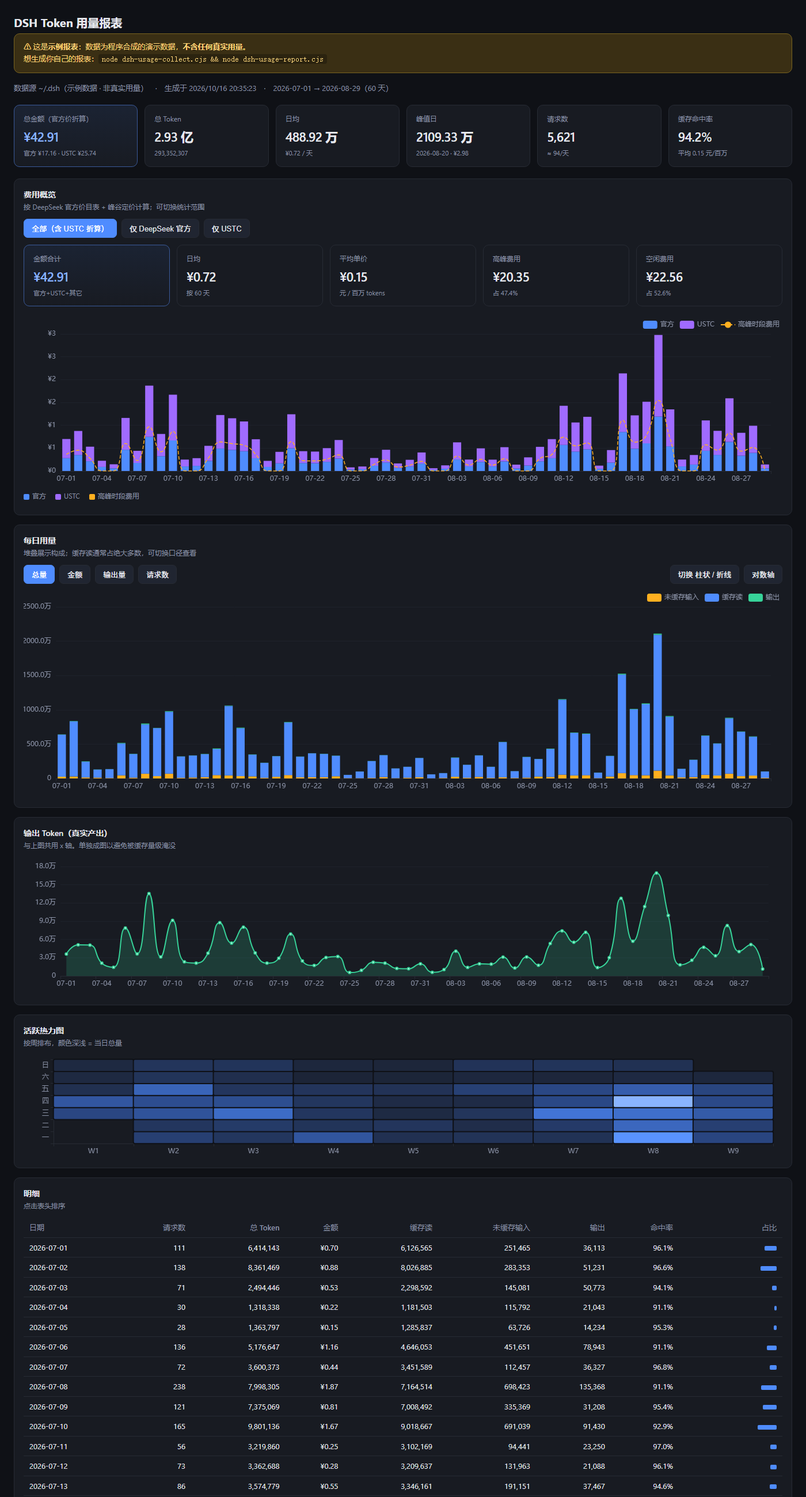
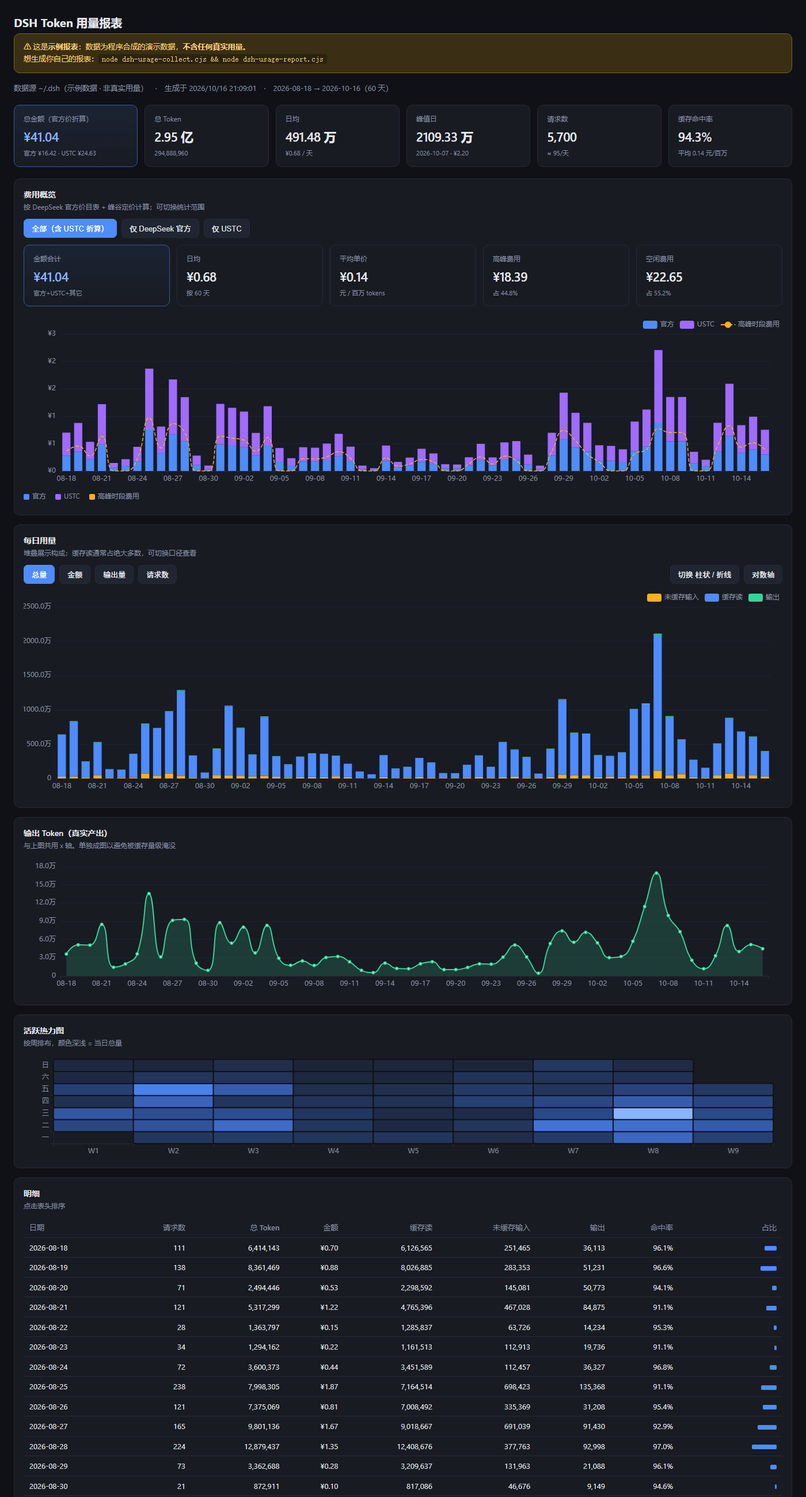
添加 CI 与示例报表优化
- .github/workflows/ci.yml：语法检查 + 隐私自检 + 计价自测(峰谷边界) + --demo 端到端
  并在 CI 中校验生成的报表不含个人信息
- --demo 示例数据改为对齐到当天（结束于今天，跨度 60 天），更像真实报表
- README 增加 CI 徽章、CI 说明与文件表条目

diff --git a/examples/demo-report.html b/examples/demo-report.html
@@ -48,15 +48,15 @@
   <h1>DSH Token 用量报表</h1>
   <div class="demo-banner">⚠ 这是<b>示例报表</b>：数据为程序合成的演示数据，<b>不含任何真实用量</b>。<br>
     想生成你自己的报表：<code>node dsh-usage-collect.cjs &amp;&amp; node dsh-usage-report.cjs</code></div>
-  <div class="sub">数据源 ~/.dsh（示例数据 · 非真实用量）　·　生成于 2026/10/16 20:35:23　·　2026-07-01 → 2026-08-29（60 天）</div>
+  <div class="sub">数据源 ~/.dsh（示例数据 · 非真实用量）　·　生成于 2026/10/16 21:09:01　·　2026-08-18 → 2026-10-16（60 天）</div>
 
   <div class="cards">
-    <div class="card hl"><div class="k">总金额（官方价折算）</div><div class="v">¥42.91</div><div class="n">官方 ¥17.16 · USTC ¥25.74</div></div>
-    <div class="card"><div class="k">总 Token</div><div class="v">2.93 亿</div><div class="n">293,352,307</div></div>
-    <div class="card"><div class="k">日均</div><div class="v">488.92 万</div><div class="n">¥0.72 / 天</div></div>
-    <div class="card"><div class="k">峰值日</div><div class="v">2109.33 万</div><div class="n">2026-08-20 · ¥2.98</div></div>
-    <div class="card"><div class="k">请求数</div><div class="v">5,621</div><div class="n">≈ 94/天</div></div>
-    <div class="card"><div class="k">缓存命中率</div><div class="v">94.2%</div><div class="n">平均 0.15 元/百万</div></div>
+    <div class="card hl"><div class="k">总金额（官方价折算）</div><div class="v">¥41.04</div><div class="n">官方 ¥16.42 · USTC ¥24.63</div></div>
+    <div class="card"><div class="k">总 Token</div><div class="v">2.95 亿</div><div class="n">294,888,960</div></div>
+    <div class="card"><div class="k">日均</div><div class="v">491.48 万</div><div class="n">¥0.68 / 天</div></div>
+    <div class="card"><div class="k">峰值日</div><div class="v">2109.33 万</div><div class="n">2026-10-07 · ¥2.20</div></div>
+    <div class="card"><div class="k">请求数</div><div class="v">5,700</div><div class="n">≈ 95/天</div></div>
+    <div class="card"><div class="k">缓存命中率</div><div class="v">94.3%</div><div class="n">平均 0.14 元/百万</div></div>
   </div>
 
   <div class="panel">
@@ -154,7 +154,7 @@
   </div>
 
 <script>
-const DATA = {"days":[{"day":"2026-07-01","req":111,"uncached":251465,"out":36113,"cache":6126565,"total":6414143,"subagentReq":0,"subagentTotal":0,"cost":0.699905205,"costOfficial":0.279962082,"costUstc":0.419943123,"costOther":0,"peakReq":39,"peakCost":0.36291381,"offReq":72,"offCost":0.33699139499999997},{"day":"2026-07-02","req":138,"uncached":283353,"out":51231,"cache":8026885,"total":8361469,"subagentReq":0,"subagentTotal":0,"cost":0.875899845,"costOfficial":0.350359938,"costUstc":0.525539907,"costOther":0,"peakReq":48,"peakCost":0.45417029,"offReq":90,"offCost":0.42172955500000003},{"day":"2026-07-03","req":71,"uncached":145081,"out":50773,"cache":2298592,"total":2494446,"subagentReq":0,"subagentTotal":0,"cost":0.532095534,"costOfficial":0.2128382136,"costUstc":0.3192573204,"costOther":0,"peakReq":25,"peakCost":0.27590138799999997,"offReq":46,"offCost":0.256194146},{"day":"2026-07-04","req":30,"uncached":115792,"out":21043,"cache":1181503,"total":1318338,"subagentReq":0,"subagentTotal":0,"cost":0.22359406,"costOfficial":0.08943762400000001,"costUstc":0.134156436,"costOther":0,"peakReq":0,"peakCost":0,"offReq":30,"offCost":0.22359406},{"day":"2026-07-05","req":28,"uncached":63726,"out":14234,"cache":1285837,"total":1363797,"subagentReq":0,"subagentTotal":0,"cost":0.14637874,"costOfficial":0.05855149600000001,"costUstc":0.087827244,"costOther":0,"peakReq":0,"peakCost":0,"offReq":28,"offCost":0.14637874},{"day":"2026-07-06","req":136,"uncached":451651,"out":78943,"cache":4646053,"total":5176647,"subagentReq":0,"subagentTotal":0,"cost":1.1614644809999999,"costOfficial":0.4645857924,"costUstc":0.6968786885999999,"costOther":0,"peakReq":48,"peakCost":0.6022408419999999,"offReq":88,"offCost":0.559223639},{"day":"2026-07-07","req":72,"uncached":112457,"out":36327,"cache":3451589,"total":3600373,"subagentReq":0,"subagentTotal":0,"cost":0.441175653,"costOfficial":0.1764702612,"costUstc":0.26470539179999997,"costOther":0,"peakReq":25,"peakCost":0.22875774599999998,"offReq":47,"offCost":0.21241790700000002},{"day":"2026-07-08","req":238,"uncached":698423,"out":135368,"cache":7164514,"total":7998305,"subagentReq":0,"subagentTotal":0,"cost":1.8673001280000001,"costOfficial":0.7469200512,"costUstc":1.1203800768,"costOther":0,"peakReq":83,"peakCost":0.968229696,"offReq":155,"offCost":0.899070432},{"day":"2026-07-09","req":121,"uncached":335369,"out":31208,"cache":7008492,"total":7375069,"subagentReq":0,"subagentTotal":0,"cost":0.810500634,"costOfficial":0.32420025360000004,"costUstc":0.4863003804,"costOther":0,"peakReq":42,"peakCost":0.42025958799999996,"offReq":79,"offCost":0.39024104600000004},{"day":"2026-07-10","req":165,"uncached":691039,"out":91430,"cache":9018667,"total":9801136,"subagentReq":0,"subagentTotal":0,"cost":1.670128659,"costOfficial":0.6680514636,"costUstc":1.0020771953999998,"costOther":0,"peakReq":58,"peakCost":0.8659926379999998,"offReq":107,"offCost":0.804136021},{"day":"2026-07-11","req":56,"uncached":94441,"out":23250,"cache":3102169,"total":3219860,"subagentReq":0,"subagentTotal":0,"cost":0.24948438,"costOfficial":0.09979375200000001,"costUstc":0.149690628,"costOther":0,"peakReq":0,"peakCost":0,"offReq":56,"offCost":0.24948438},{"day":"2026-07-12","req":73,"uncached":131963,"out":21088,"cache":3209637,"total":3362688,"subagentReq":0,"subagentTotal":0,"cost":0.28050774,"costOfficial":0.112203096,"costUstc":0.168304644,"costOther":0,"peakReq":0,"peakCost":0,"offReq":73,"offCost":0.28050774},{"day":"2026-07-13","req":86,"uncached":191151,"out":37467,"cache":3346161,"total":3574779,"subagentReq":0,"subagentTotal":0,"cost":0.550721997,"costOfficial":0.22028879880000002,"costUstc":0.3304331982,"costOther":0,"peakReq":30,"peakCost":0.285559554,"offReq":56,"offCost":0.265162443},{"day":"2026-07-14","req":121,"uncached":480385,"out":87700,"cache":3808007,"total":4376092,"subagentReq":0,"subagentTotal":0,"cost":1.2249159390000002,"costOfficial":0.4899663756000001,"costUstc":0.7349495634000001,"costOther":0,"peakReq":42,"peakCost":0.635141598,"offReq":79,"offCost":0.589774341},{"day":"2026-07-15","req":174,"uncached":436368,"out":53994,"cache":10123490,"total":10613852,"subagentReq":0,"subagentTotal":0,"cost":1.15399863,"costOfficial":0.461599452,"costUstc":0.692399178,"costOther":0,"peakReq":61,"peakCost":0.59836966,"offReq":113,"offCost":0.55562897},{"day":"2026-07-16","req":137,"uncached":342391,"out":80218,"cache":6984949,"total":7407558,"subagentReq":0,"subagentTotal":0,"cost":1.083998673,"costOfficial":0.43359946920000003,"costUstc":0.6503992037999999,"costOther":0,"peakReq":48,"peakCost":0.562073386,"offReq":89,"offCost":0.5219252870000001},{"day":"2026-07-17","req":70,"uncached":300010,"out":37840,"cache":3173099,"total":3510949,"subagentReq":0,"subagentTotal":0,"cost":0.695023173,"costOfficial":0.2780092692,"costUstc":0.41701390380000003,"costOther":0,"peakReq":25,"peakCost":0.360382386,"offReq":45,"offCost":0.334640787},{"day":"2026-07-18","req":41,"uncached":93850,"out":21057,"cache":2173941,"total":2288848,"subagentReq":0,"subagentTotal":0,"cost":0.22155682000000002,"costOfficial":0.08862272800000001,"costUstc":0.132934092,"costOther":0,"peakReq":0,"peakCost":0,"offReq":41,"offCost":0.22155682000000002},{"day":"2026-07-19","req":55,"uncached":242552,"out":29080,"cache":3000436,"total":3272068,"subagentReq":0,"subagentTotal":0,"cost":0.41888072,"costOfficial":0.167552288,"costUstc":0.251328432,"costOther":0,"peakReq":0,"peakCost":0,"offReq":55,"offCost":0.41888072},{"day":"2026-07-20","req":146,"uncached":490965,"out":68805,"cache":7669874,"total":8229644,"subagentReq":0,"subagentTotal":0,"cost":1.2414363480000001,"costOfficial":0.49657453920000005,"costUstc":0.7448618088000001,"costOther":0,"peakReq":51,"peakCost":0.6437077360000001,"offReq":95,"offCost":0.5977286119999999},{"day":"2026-07-21","req":51,"uncached":162941,"out":24514,"cache":3012192,"total":3199647,"subagentReq":0,"subagentTotal":0,"cost":0.433675134,"costOfficial":0.1734700536,"costUstc":0.2602050804,"costOther":0,"peakReq":18,"peakCost":0.22486858799999998,"offReq":33,"offCost":0.208806546},{"day":"2026-07-22","req":63,"uncached":176222,"out":17180,"cache":3486897,"total":3680299,"subagentReq":0,"subagentTotal":0,"cost":0.424817919,"costOfficial":0.1699271676,"costUstc":0.2548907514,"costOther":0,"peakReq":22,"peakCost":0.220275958,"offReq":41,"offCost":0.204541961},{"day":"2026-07-23","req":101,"uncached":180896,"out":30362,"cache":3398075,"total":3609333,"subagentReq":0,"subagentTotal":0,"cost":0.499912425,"costOfficial":0.19996497000000002,"costUstc":0.299947455,"costOther":0,"peakReq":35,"peakCost":0.25921384999999997,"offReq":66,"offCost":0.24069857500000003},{"day":"2026-07-24","req":85,"uncached":314491,"out":31984,"cache":2987825,"total":3334300,"subagentReq":0,"subagentTotal":0,"cost":0.677947725,"costOfficial":0.27117909,"costUstc":0.406768635,"costOther":0,"peakReq":30,"peakCost":0.35152845,"offReq":55,"offCost":0.326419275},{"day":"2026-07-25","req":14,"uncached":47650,"out":5607,"cache":466925,"total":520182,"subagentReq":0,"subagentTotal":0,"cost":0.0794165,"costOfficial":0.0317666,"costUstc":0.0476499,"costOther":0,"peakReq":0,"peakCost":0,"offReq":14,"offCost":0.0794165},{"day":"2026-07-26","req":18,"uncached":42326,"out":9156,"cache":963395,"total":1014877,"subagentReq":0,"subagentTotal":0,"cost":0.0982179,"costOfficial":0.03928716,"costUstc":0.058930739999999995,"costOther":0,"peakReq":0,"peakCost":0,"offReq":18,"offCost":0.0982179},{"day":"2026-07-27","req":42,"uncached":71455,"out":22499,"cache":2450554,"total":2544508,"subagentReq":0,"subagentTotal":0,"cost":0.28412380800000003,"costOfficial":0.11364952320000002,"costUstc":0.17047428480000001,"costOther":0,"peakReq":15,"peakCost":0.147323456,"offReq":27,"offCost":0.13680035200000001},{"day":"2026-07-28","req":63,"uncached":196464,"out":20975,"cache":3192531,"total":3409970,"subagentReq":0,"subagentTotal":0,"cost":0.464689737,"costOfficial":0.1858758948,"costUstc":0.2788138422,"costOther":0,"peakReq":22,"peakCost":0.24095023399999999,"offReq":41,"offCost":0.223739503},{"day":"2026-07-29","req":24,"uncached":45337,"out":12258,"cache":1412073,"total":1469668,"subagentReq":0,"subagentTotal":0,"cost":0.16552412100000002,"costOfficial":0.06620964840000002,"costUstc":0.09931447260000001,"costOther":0,"peakReq":8,"peakCost":0.085827322,"offReq":16,"offCost":0.07969679900000001},{"day":"2026-07-30","req":29,"uncached":102463,"out":11733,"cache":1591041,"total":1705237,"subagentReq":0,"subagentTotal":0,"cost":0.244641357,"costOfficial":0.0978565428,"costUstc":0.1467848142,"costOther":0,"peakReq":10,"peakCost":0.126851074,"offReq":19,"offCost":0.117790283},{"day":"2026-07-31","req":56,"uncached":164352,"out":19901,"cache":2814172,"total":2998425,"subagentReq":0,"subagentTotal":0,"cost":0.40532324399999997,"costOfficial":0.1621292976,"costUstc":0.24319394639999997,"costOther":0,"peakReq":20,"peakCost":0.21016760799999998,"offReq":36,"offCost":0.195155636},{"day":"2026-08-01","req":11,"uncached":25228,"out":6014,"cache":570778,"total":602020,"subagentReq":0,"subagentTotal":0,"cost":0.06069956,"costOfficial":0.024279824000000002,"costUstc":0.036419736,"costOther":0,"peakReq":0,"peakCost":0,"offReq":11,"offCost":0.06069956},{"day":"2026-08-02","req":21,"uncached":67250,"out":10473,"cache":704701,"total":782424,"subagentReq":0,"subagentTotal":0,"cost":0.12323602,"costOfficial":0.049294408000000005,"costUstc":0.073941612,"costOther":0,"peakReq":0,"peakCost":0,"offReq":21,"offCost":0.12323602},{"day":"2026-08-03","req":63,"uncached":246126,"out":40680,"cache":2767451,"total":3054257,"subagentReq":0,"subagentTotal":0,"cost":0.626663277,"costOfficial":0.25066531080000004,"costUstc":0.3759979662,"costOther":0,"peakReq":22,"peakCost":0.324936514,"offReq":41,"offCost":0.301726763},{"day":"2026-08-04","req":36,"uncached":91579,"out":13989,"cache":1897644,"total":2003212,"subagentReq":0,"subagentTotal":0,"cost":0.250408638,"costOfficial":0.10016345520000002,"costUstc":0.15024518280000002,"costOther":0,"peakReq":13,"peakCost":0.129841516,"offReq":23,"offCost":0.120567122},{"day":"2026-08-05","req":77,"uncached":224650,"out":19942,"cache":3125816,"total":3370408,"subagentReq":0,"subagentTotal":0,"cost":0.495361332,"costOfficial":0.1981445328,"costUstc":0.2972167992,"costOther":0,"peakReq":27,"peakCost":0.256854024,"offReq":50,"offCost":0.238507308},{"day":"2026-08-06","req":39,"uncached":74009,"out":19363,"cache":1611793,"total":1705165,"subagentReq":0,"subagentTotal":0,"cost":0.24799076099999998,"costOfficial":0.09919630439999999,"costUstc":0.14879445659999999,"costOther":0,"peakReq":14,"peakCost":0.12858780199999997,"offReq":25,"offCost":0.119402959},{"day":"2026-08-07","req":103,"uncached":159645,"out":30943,"cache":5130407,"total":5320995,"subagentReq":0,"subagentTotal":0,"cost":0.521133939,"costOfficial":0.20845357560000002,"costUstc":0.3126803634,"costOther":0,"peakReq":36,"peakCost":0.270217598,"offReq":67,"offCost":0.25091634100000004},{"day":"2026-08-08","req":32,"uncached":66806,"out":12951,"cache":995230,"total":1074987,"subagentReq":0,"subagentTotal":0,"cost":0.1385146,"costOfficial":0.05540584,"costUstc":0.08310875999999999,"costOther":0,"peakReq":0,"peakCost":0,"offReq":32,"offCost":0.1385146},{"day":"2026-08-09","req":51,"uncached":113488,"out":31213,"cache":3002815,"total":3147516,"subagentReq":0,"subagentTotal":0,"cost":0.2983963,"costOfficial":0.11935852000000001,"costUstc":0.17903778,"costOther":0,"peakReq":0,"peakCost":0,"offReq":51,"offCost":0.2983963},{"day":"2026-08-10","req":68,"uncached":269721,"out":17583,"cache":2566292,"total":2853596,"subagentReq":0,"subagentTotal":0,"cost":0.528361434,"costOfficial":0.21134457360000003,"costUstc":0.3170168604,"costOther":0,"peakReq":24,"peakCost":0.27396518799999997,"offReq":44,"offCost":0.254396246},{"day":"2026-08-11","req":96,"uncached":221706,"out":53294,"cache":4079076,"total":4354076,"subagentReq":0,"subagentTotal":0,"cost":0.6972257519999999,"costOfficial":0.2788903008,"costUstc":0.41833545119999993,"costOther":0,"peakReq":34,"peakCost":0.36152446399999993,"offReq":62,"offCost":0.335701288},{"day":"2026-08-12","req":228,"uncached":542249,"out":74107,"cache":10938224,"total":11554580,"subagentReq":0,"subagentTotal":0,"cost":1.427545998,"costOfficial":0.5710183992000001,"costUstc":0.8565275988,"costOther":0,"peakReq":80,"peakCost":0.740209036,"offReq":148,"offCost":0.687336962},{"day":"2026-08-13","req":111,"uncached":441173,"out":55431,"cache":6185220,"total":6681824,"subagentReq":0,"subagentTotal":0,"cost":1.06191189,"costOfficial":0.424764756,"costUstc":0.637147134,"costOther":0,"peakReq":39,"peakCost":0.5506209799999999,"offReq":72,"offCost":0.51129091},{"day":"2026-08-14","req":117,"uncached":471576,"out":71703,"cache":6008843,"total":6552122,"subagentReq":0,"subagentTotal":0,"cost":1.186062561,"costOfficial":0.4744250244,"costUstc":0.7116375366,"costOther":0,"peakReq":41,"peakCost":0.6149954019999999,"offReq":76,"offCost":0.571067159},{"day":"2026-08-15","req":25,"uncached":46951,"out":13619,"cache":791855,"total":852425,"subagentReq":0,"subagentTotal":0,"cost":0.1172641,"costOfficial":0.04690564,"costUstc":0.07035846,"costOther":0,"peakReq":0,"peakCost":0,"offReq":25,"offCost":0.1172641},{"day":"2026-08-16","req":62,"uncached":278155,"out":29962,"cache":2987202,"total":3295319,"subagentReq":0,"subagentTotal":0,"cost":0.45774704,"costOfficial":0.183098816,"costUstc":0.274648224,"costOther":0,"peakReq":0,"peakCost":0,"offReq":62,"offCost":0.45774704},{"day":"2026-08-17","req":284,"uncached":785047,"out":127759,"cache":14350175,"total":15262981,"subagentReq":0,"subagentTotal":0,"cost":2.137166775,"costOfficial":0.85486671,"costUstc":1.2823000649999998,"costOther":0,"peakReq":99,"peakCost":1.10816055,"offReq":185,"offCost":1.029006225},{"day":"2026-08-18","req":185,"uncached":481606,"out":57114,"cache":9589139,"total":10127859,"subagentReq":0,"subagentTotal":0,"cost":1.217490453,"costOfficial":0.4869961812,"costUstc":0.7304942717999999,"costOther":0,"peakReq":65,"peakCost":0.6312913459999999,"offReq":120,"offCost":0.586199107},{"day":"2026-08-19","req":175,"uncached":457892,"out":114273,"cache":10360292,"total":10932457,"subagentReq":0,"subagentTotal":0,"cost":1.5149562839999997,"costOfficial":0.6059825135999999,"costUstc":0.9089737703999998,"costOther":0,"peakReq":61,"peakCost":0.7855328879999999,"offReq":114,"offCost":0.729423396},{"day":"2026-08-20","req":332,"uncached":1131601,"out":169328,"cache":19792386,"total":21093315,"subagentReq":0,"subagentTotal":0,"cost":2.976426972,"costOfficial":1.1905707888000001,"costUstc":1.7858561832,"costOther":0,"peakReq":116,"peakCost":1.5433325039999999,"offReq":216,"offCost":1.4330944680000002},{"day":"2026-08-21","req":180,"uncached":430625,"out":99590,"cache":8564212,"total":9094427,"subagentReq":0,"subagentTotal":0,"cost":1.350363474,"costOfficial":0.5401453896,"costUstc":0.8102180843999999,"costOther":0,"peakReq":63,"peakCost":0.700188468,"offReq":117,"offCost":0.650175006},{"day":"2026-08-22","req":34,"uncached":152467,"out":18157,"cache":1252639,"total":1423263,"subagentReq":0,"subagentTotal":0,"cost":0.25014778,"costOfficial":0.100059112,"costUstc":0.15008866799999998,"costOther":0,"peakReq":0,"peakCost":0,"offReq":34,"offCost":0.25014778},{"day":"2026-08-23","req":49,"uncached":196238,"out":25839,"cache":2515858,"total":2737935,"subagentReq":0,"subagentTotal":0,"cost":0.34991116,"costOfficial":0.139964464,"costUstc":0.209946696,"costOther":0,"peakReq":0,"peakCost":0,"offReq":49,"offCost":0.34991116},{"day":"2026-08-24","req":124,"uncached":517702,"out":47134,"cache":5690561,"total":6255397,"subagentReq":0,"subagentTotal":0,"cost":1.107066447,"costOfficial":0.44282657880000004,"costUstc":0.6642398682,"costOther":0,"peakReq":43,"peakCost":0.574034454,"offReq":81,"offCost":0.533031993},{"day":"2026-08-25","req":106,"uncached":424952,"out":33189,"cache":4666199,"total":5124340,"subagentReq":0,"subagentTotal":0,"cost":0.878893173,"costOfficial":0.3515572692,"costUstc":0.5273359038,"costOther":0,"peakReq":37,"peakCost":0.455722386,"offReq":69,"offCost":0.423170787},{"day":"2026-08-26","req":153,"uncached":685618,"out":82964,"cache":8075433,"total":8844015,"subagentReq":0,"subagentTotal":0,"cost":1.5916265909999998,"costOfficial":0.6366506364,"costUstc":0.9549759545999998,"costOther":0,"peakReq":54,"peakCost":0.8252878619999999,"offReq":99,"offCost":0.766338729},{"day":"2026-08-27","req":125,"uncached":329160,"out":40128,"cache":6474620,"total":6843908,"subagentReq":0,"subagentTotal":0,"cost":0.83587194,"costOfficial":0.334348776,"costUstc":0.501523164,"costOther":0,"peakReq":44,"peakCost":0.43341507999999995,"offReq":81,"offCost":0.40245686},{"day":"2026-08-28","req":97,"uncached":413110,"out":51698,"cache":5672888,"total":6137696,"subagentReq":0,"subagentTotal":0,"cost":0.9900356760000001,"costOfficial":0.39601427040000003,"costUstc":0.5940214056,"costOther":0,"peakReq":34,"peakCost":0.513351832,"offReq":63,"offCost":0.4766838440000001},{"day":"2026-08-29","req":22,"uncached":78109,"out":11450,"cache":933722,"total":1023281,"subagentReq":0,"subagentTotal":0,"cost":0.14258344,"costOfficial":0.057033376000000004,"costUstc":0.085550064,"costOther":0,"peakReq":0,"peakCost":0,"offReq":22,"offCost":0.14258344}],"byModel":{"deepseek-flash":{"total":211213661.04000002,"req":4044,"uncached":12154656.959999997,"cache":197191879.92,"out":1867124.16,"cost":30.893990829119993,"costOfficial":12.357596331648002,"costUstc":18.536394497471992,"costOther":0},"deepseek-v4-pro":{"total":29335230.7,"req":565,"uncached":1688146.7999999998,"cache":27387761.099999994,"out":259322.79999999987,"cost":4.2908320596,"costOfficial":1.71633282384,"costUstc":2.5744992357599994,"costOther":0},"deepseek-v4-flash":{"total":52803415.260000005,"req":1010,"uncached":3038664.2399999993,"cache":49297969.98,"out":466781.04,"cost":7.723497707279998,"costOfficial":3.0893990829120006,"costUstc":4.634098624367998,"costOther":0}},"byProviderClass":{"official":{"req":2244,"total":117340922.8,"cost":17.1633282384},"ustc":{"req":3377,"total":176011384.2,"cost":25.74499235759999}},"totals":{"req":5621,"uncached":16881468,"cache":273877611,"out":2593228,"total":293352307,"cost":42.908320596,"costOfficial":17.1633282384,"costUstc":25.74499235759999,"costOther":0,"peakReq":1751,"peakCost":20.352776752000004,"offReq":3870,"offCost":22.555543844000006},"pricing":{"currency":"CNY","source":"https://api-docs.deepseek.com/zh-cn/quick_start/pricing/","note":"按 DeepSeek 官方价目表 + 峰谷定价；旧模型名 deepseek-v4-flash* 按 Flash 价；非 DeepSeek 模型按 Flash 价折算","peakRule":"北京时间 周一至周五（不含法定节假日）09:00-12:00、14:00-18:00","holidays2026":["2026-09-25","2026-09-26","2026-09-27","2026-10-01","2026-10-02","2026-10-03","2026-10-04","2026-10-05","2026-10-06","2026-10-07"],"makeupWorkdays":["2026-09-20","2026-10-10"],"table":{"deepseek-flash":{"cacheHit":{"off":0.02,"peak":0.04},"cacheMiss":{"off":1,"peak":2},"output":{"off":4,"peak":8}},"deepseek-v4-pro":{"cacheHit":{"off":0.15,"peak":0.3},"cacheMiss":{"off":4.5,"peak":9},"output":{"off":13.5,"peak":27}}}}};
+const DATA = {"days":[{"day":"2026-08-18","req":111,"uncached":251465,"out":36113,"cache":6126565,"total":6414143,"subagentReq":0,"subagentTotal":0,"cost":0.699905205,"costOfficial":0.279962082,"costUstc":0.419943123,"costOther":0,"peakReq":39,"peakCost":0.36291381,"offReq":72,"offCost":0.33699139499999997},{"day":"2026-08-19","req":138,"uncached":283353,"out":51231,"cache":8026885,"total":8361469,"subagentReq":0,"subagentTotal":0,"cost":0.875899845,"costOfficial":0.350359938,"costUstc":0.525539907,"costOther":0,"peakReq":48,"peakCost":0.45417029,"offReq":90,"offCost":0.42172955500000003},{"day":"2026-08-20","req":71,"uncached":145081,"out":50773,"cache":2298592,"total":2494446,"subagentReq":0,"subagentTotal":0,"cost":0.532095534,"costOfficial":0.2128382136,"costUstc":0.3192573204,"costOther":0,"peakReq":25,"peakCost":0.27590138799999997,"offReq":46,"offCost":0.256194146},{"day":"2026-08-21","req":121,"uncached":467028,"out":84875,"cache":4765396,"total":5317299,"subagentReq":0,"subagentTotal":0,"cost":1.2174784920000001,"costOfficial":0.4869913968000001,"costUstc":0.7304870952000001,"costOther":0,"peakReq":42,"peakCost":0.631285144,"offReq":79,"offCost":0.586193348},{"day":"2026-08-22","req":28,"uncached":63726,"out":14234,"cache":1285837,"total":1363797,"subagentReq":0,"subagentTotal":0,"cost":0.14637874,"costOfficial":0.05855149600000001,"costUstc":0.087827244,"costOther":0,"peakReq":0,"peakCost":0,"offReq":28,"offCost":0.14637874},{"day":"2026-08-23","req":34,"uncached":112913,"out":19736,"cache":1161513,"total":1294162,"subagentReq":0,"subagentTotal":0,"cost":0.21508726,"costOfficial":0.08603490400000001,"costUstc":0.129052356,"costOther":0,"peakReq":0,"peakCost":0,"offReq":34,"offCost":0.21508726},{"day":"2026-08-24","req":72,"uncached":112457,"out":36327,"cache":3451589,"total":3600373,"subagentReq":0,"subagentTotal":0,"cost":0.441175653,"costOfficial":0.1764702612,"costUstc":0.26470539179999997,"costOther":0,"peakReq":25,"peakCost":0.22875774599999998,"offReq":47,"offCost":0.21241790700000002},{"day":"2026-08-25","req":238,"uncached":698423,"out":135368,"cache":7164514,"total":7998305,"subagentReq":0,"subagentTotal":0,"cost":1.8673001280000001,"costOfficial":0.7469200512,"costUstc":1.1203800768,"costOther":0,"peakReq":83,"peakCost":0.968229696,"offReq":155,"offCost":0.899070432},{"day":"2026-08-26","req":121,"uncached":335369,"out":31208,"cache":7008492,"total":7375069,"subagentReq":0,"subagentTotal":0,"cost":0.810500634,"costOfficial":0.32420025360000004,"costUstc":0.4863003804,"costOther":0,"peakReq":42,"peakCost":0.42025958799999996,"offReq":79,"offCost":0.39024104600000004},{"day":"2026-08-27","req":165,"uncached":691039,"out":91430,"cache":9018667,"total":9801136,"subagentReq":0,"subagentTotal":0,"cost":1.670128659,"costOfficial":0.6680514636,"costUstc":1.0020771953999998,"costOther":0,"peakReq":58,"peakCost":0.8659926379999998,"offReq":107,"offCost":0.804136021},{"day":"2026-08-28","req":224,"uncached":377763,"out":92998,"cache":12408676,"total":12879437,"subagentReq":0,"subagentTotal":0,"cost":1.347203502,"costOfficial":0.5388814008,"costUstc":0.8083221011999999,"costOther":0,"peakReq":78,"peakCost":0.6985499639999999,"offReq":146,"offCost":0.648653538},{"day":"2026-08-29","req":73,"uncached":131963,"out":21088,"cache":3209637,"total":3362688,"subagentReq":0,"subagentTotal":0,"cost":0.28050774,"costOfficial":0.112203096,"costUstc":0.168304644,"costOther":0,"peakReq":0,"peakCost":0,"offReq":73,"offCost":0.28050774},{"day":"2026-08-30","req":21,"uncached":46676,"out":9149,"cache":817086,"total":872911,"subagentReq":0,"subagentTotal":0,"cost":0.09961371999999999,"costOfficial":0.039845488,"costUstc":0.05976823199999999,"costOther":0,"peakReq":0,"peakCost":0,"offReq":21,"offCost":0.09961371999999999},{"day":"2026-08-31","req":121,"uncached":480385,"out":87700,"cache":3808007,"total":4376092,"subagentReq":0,"subagentTotal":0,"cost":1.2249159390000002,"costOfficial":0.4899663756000001,"costUstc":0.7349495634000001,"costOther":0,"peakReq":42,"peakCost":0.635141598,"offReq":79,"offCost":0.589774341},{"day":"2026-09-01","req":174,"uncached":436368,"out":53994,"cache":10123490,"total":10613852,"subagentReq":0,"subagentTotal":0,"cost":1.15399863,"costOfficial":0.461599452,"costUstc":0.692399178,"costOther":0,"peakReq":61,"peakCost":0.59836966,"offReq":113,"offCost":0.55562897},{"day":"2026-09-02","req":137,"uncached":342391,"out":80218,"cache":6984949,"total":7407558,"subagentReq":0,"subagentTotal":0,"cost":1.083998673,"costOfficial":0.43359946920000003,"costUstc":0.6503992037999999,"costOther":0,"peakReq":48,"peakCost":0.562073386,"offReq":89,"offCost":0.5219252870000001},{"day":"2026-09-03","req":70,"uncached":300010,"out":37840,"cache":3173099,"total":3510949,"subagentReq":0,"subagentTotal":0,"cost":0.695023173,"costOfficial":0.2780092692,"costUstc":0.41701390380000003,"costOther":0,"peakReq":25,"peakCost":0.360382386,"offReq":45,"offCost":0.334640787},{"day":"2026-09-04","req":162,"uncached":370821,"out":83199,"cache":8589719,"total":9043739,"subagentReq":0,"subagentTotal":0,"cost":1.181805363,"costOfficial":0.47272214520000005,"costUstc":0.7090832178,"costOther":0,"peakReq":57,"peakCost":0.612787966,"offReq":105,"offCost":0.569017397},{"day":"2026-09-05","req":55,"uncached":242552,"out":29080,"cache":3000436,"total":3272068,"subagentReq":0,"subagentTotal":0,"cost":0.41888072,"costOfficial":0.167552288,"costUstc":0.251328432,"costOther":0,"peakReq":0,"peakCost":0,"offReq":55,"offCost":0.41888072},{"day":"2026-09-06","req":37,"uncached":124423,"out":17437,"cache":1943735,"total":2085595,"subagentReq":0,"subagentTotal":0,"cost":0.2330457,"costOfficial":0.09321828,"costUstc":0.13982741999999998,"costOther":0,"peakReq":0,"peakCost":0,"offReq":37,"offCost":0.2330457},{"day":"2026-09-07","req":51,"uncached":162941,"out":24514,"cache":3012192,"total":3199647,"subagentReq":0,"subagentTotal":0,"cost":0.433675134,"costOfficial":0.1734700536,"costUstc":0.2602050804,"costOther":0,"peakReq":18,"peakCost":0.22486858799999998,"offReq":33,"offCost":0.208806546},{"day":"2026-09-08","req":63,"uncached":176222,"out":17180,"cache":3486897,"total":3680299,"subagentReq":0,"subagentTotal":0,"cost":0.424817919,"costOfficial":0.1699271676,"costUstc":0.2548907514,"costOther":0,"peakReq":22,"peakCost":0.220275958,"offReq":41,"offCost":0.204541961},{"day":"2026-09-09","req":101,"uncached":180896,"out":30362,"cache":3398075,"total":3609333,"subagentReq":0,"subagentTotal":0,"cost":0.499912425,"costOfficial":0.19996497000000002,"costUstc":0.299947455,"costOther":0,"peakReq":35,"peakCost":0.25921384999999997,"offReq":66,"offCost":0.24069857500000003},{"day":"2026-09-10","req":85,"uncached":314491,"out":31984,"cache":2987825,"total":3334300,"subagentReq":0,"subagentTotal":0,"cost":0.677947725,"costOfficial":0.27117909,"costUstc":0.406768635,"costOther":0,"peakReq":30,"peakCost":0.35152845,"offReq":55,"offCost":0.326419275},{"day":"2026-09-11","req":58,"uncached":197407,"out":23230,"cache":1934406,"total":2155043,"subagentReq":0,"subagentTotal":0,"cost":0.44417041199999996,"costOfficial":0.1776681648,"costUstc":0.2665022472,"costOther":0,"peakReq":20,"peakCost":0.23031058399999998,"offReq":38,"offCost":0.213859828},{"day":"2026-09-12","req":18,"uncached":42326,"out":9156,"cache":963395,"total":1014877,"subagentReq":0,"subagentTotal":0,"cost":0.0982179,"costOfficial":0.03928716,"costUstc":0.058930739999999995,"costOther":0,"peakReq":0,"peakCost":0,"offReq":18,"offCost":0.0982179},{"day":"2026-09-13","req":10,"uncached":17013,"out":5357,"cache":583465,"total":605835,"subagentReq":0,"subagentTotal":0,"cost":0.050110299999999997,"costOfficial":0.02004412,"costUstc":0.030066179999999998,"costOther":0,"peakReq":0,"peakCost":0,"offReq":10,"offCost":0.050110299999999997},{"day":"2026-09-14","req":63,"uncached":196464,"out":20975,"cache":3192531,"total":3409970,"subagentReq":0,"subagentTotal":0,"cost":0.464689737,"costOfficial":0.1858758948,"costUstc":0.2788138422,"costOther":0,"peakReq":22,"peakCost":0.24095023399999999,"offReq":41,"offCost":0.223739503},{"day":"2026-09-15","req":24,"uncached":45337,"out":12258,"cache":1412073,"total":1469668,"subagentReq":0,"subagentTotal":0,"cost":0.16552412100000002,"costOfficial":0.06620964840000002,"costUstc":0.09931447260000001,"costOther":0,"peakReq":8,"peakCost":0.085827322,"offReq":16,"offCost":0.07969679900000001},{"day":"2026-09-16","req":29,"uncached":102463,"out":11733,"cache":1591041,"total":1705237,"subagentReq":0,"subagentTotal":0,"cost":0.244641357,"costOfficial":0.0978565428,"costUstc":0.1467848142,"costOther":0,"peakReq":10,"peakCost":0.126851074,"offReq":19,"offCost":0.117790283},{"day":"2026-09-17","req":56,"uncached":164352,"out":19901,"cache":2814172,"total":2998425,"subagentReq":0,"subagentTotal":0,"cost":0.40532324399999997,"costOfficial":0.1621292976,"costUstc":0.24319394639999997,"costOther":0,"peakReq":20,"peakCost":0.21016760799999998,"offReq":36,"offCost":0.195155636},{"day":"2026-09-18","req":43,"uncached":98620,"out":23509,"cache":2231224,"total":2353353,"subagentReq":0,"subagentTotal":0,"cost":0.320328648,"costOfficial":0.1281314592,"costUstc":0.1921971888,"costOther":0,"peakReq":15,"peakCost":0.166096336,"offReq":28,"offCost":0.15423231199999998},{"day":"2026-09-19","req":21,"uncached":67250,"out":10473,"cache":704701,"total":782424,"subagentReq":0,"subagentTotal":0,"cost":0.12323602,"costOfficial":0.049294408000000005,"costUstc":0.073941612,"costOther":0,"peakReq":0,"peakCost":0,"offReq":21,"offCost":0.12323602},{"day":"2026-09-20","req":16,"uncached":62508,"out":10331,"cache":702845,"total":775684,"subagentReq":0,"subagentTotal":0,"cost":0.11788889999999999,"costOfficial":0.04715556,"costUstc":0.07073333999999999,"costOther":0,"peakReq":0,"peakCost":0,"offReq":16,"offCost":0.11788889999999999},{"day":"2026-09-21","req":36,"uncached":91579,"out":13989,"cache":1897644,"total":2003212,"subagentReq":0,"subagentTotal":0,"cost":0.250408638,"costOfficial":0.10016345520000002,"costUstc":0.15024518280000002,"costOther":0,"peakReq":13,"peakCost":0.129841516,"offReq":23,"offCost":0.120567122},{"day":"2026-09-22","req":77,"uncached":224650,"out":19942,"cache":3125816,"total":3370408,"subagentReq":0,"subagentTotal":0,"cost":0.495361332,"costOfficial":0.1981445328,"costUstc":0.2972167992,"costOther":0,"peakReq":27,"peakCost":0.256854024,"offReq":50,"offCost":0.238507308},{"day":"2026-09-23","req":39,"uncached":74009,"out":19363,"cache":1611793,"total":1705165,"subagentReq":0,"subagentTotal":0,"cost":0.24799076099999998,"costOfficial":0.09919630439999999,"costUstc":0.14879445659999999,"costOther":0,"peakReq":14,"peakCost":0.12858780199999997,"offReq":25,"offCost":0.119402959},{"day":"2026-09-24","req":103,"uncached":159645,"out":30943,"cache":5130407,"total":5320995,"subagentReq":0,"subagentTotal":0,"cost":0.521133939,"costOfficial":0.20845357560000002,"costUstc":0.3126803634,"costOther":0,"peakReq":36,"peakCost":0.270217598,"offReq":67,"offCost":0.25091634100000004},{"day":"2026-09-25","req":126,"uncached":263049,"out":50994,"cache":3918718,"total":4232761,"subagentReq":0,"subagentTotal":0,"cost":0.54539936,"costOfficial":0.21815974400000002,"costUstc":0.327239616,"costOther":0,"peakReq":44,"peakCost":0.19088977599999998,"offReq":82,"offCost":0.354509584},{"day":"2026-09-26","req":51,"uncached":113488,"out":31213,"cache":3002815,"total":3147516,"subagentReq":0,"subagentTotal":0,"cost":0.2983963,"costOfficial":0.11935852000000001,"costUstc":0.17903778,"costOther":0,"peakReq":0,"peakCost":0,"offReq":51,"offCost":0.2983963},{"day":"2026-09-27","req":17,"uncached":67430,"out":4396,"cache":641573,"total":713399,"subagentReq":0,"subagentTotal":0,"cost":0.09784546000000001,"costOfficial":0.039138184000000006,"costUstc":0.058707276,"costOther":0,"peakReq":0,"peakCost":0,"offReq":17,"offCost":0.09784546000000001},{"day":"2026-09-28","req":96,"uncached":221706,"out":53294,"cache":4079076,"total":4354076,"subagentReq":0,"subagentTotal":0,"cost":0.6972257519999999,"costOfficial":0.2788903008,"costUstc":0.41833545119999993,"costOther":0,"peakReq":34,"peakCost":0.36152446399999993,"offReq":62,"offCost":0.335701288},{"day":"2026-09-29","req":228,"uncached":542249,"out":74107,"cache":10938224,"total":11554580,"subagentReq":0,"subagentTotal":0,"cost":1.427545998,"costOfficial":0.5710183992000001,"costUstc":0.8565275988,"costOther":0,"peakReq":80,"peakCost":0.740209036,"offReq":148,"offCost":0.687336962},{"day":"2026-09-30","req":111,"uncached":441173,"out":55431,"cache":6185220,"total":6681824,"subagentReq":0,"subagentTotal":0,"cost":1.06191189,"costOfficial":0.424764756,"costUstc":0.637147134,"costOther":0,"peakReq":39,"peakCost":0.5506209799999999,"offReq":72,"offCost":0.51129091},{"day":"2026-10-01","req":117,"uncached":471576,"out":71703,"cache":6008843,"total":6552122,"subagentReq":0,"subagentTotal":0,"cost":0.87856486,"costOfficial":0.35142594400000005,"costUstc":0.527138916,"costOther":0,"peakReq":41,"peakCost":0.30749770099999996,"offReq":76,"offCost":0.571067159},{"day":"2026-10-02","req":100,"uncached":187804,"out":54476,"cache":3167422,"total":3409702,"subagentReq":0,"subagentTotal":0,"cost":0.46905644,"costOfficial":0.187622576,"costUstc":0.281433864,"costOther":0,"peakReq":35,"peakCost":0.164169754,"offReq":65,"offCost":0.304886686},{"day":"2026-10-03","req":62,"uncached":278155,"out":29962,"cache":2987202,"total":3295319,"subagentReq":0,"subagentTotal":0,"cost":0.45774704,"costOfficial":0.183098816,"costUstc":0.274648224,"costOther":0,"peakReq":0,"peakCost":0,"offReq":62,"offCost":0.45774704},{"day":"2026-10-04","req":71,"uncached":196262,"out":31940,"cache":3587544,"total":3815746,"subagentReq":0,"subagentTotal":0,"cost":0.39577288,"costOfficial":0.158309152,"costUstc":0.23746372799999999,"costOther":0,"peakReq":0,"peakCost":0,"offReq":71,"offCost":0.39577288},{"day":"2026-10-05","req":185,"uncached":481606,"out":57114,"cache":9589139,"total":10127859,"subagentReq":0,"subagentTotal":0,"cost":0.90184478,"costOfficial":0.36073791200000005,"costUstc":0.541106868,"costOther":0,"peakReq":65,"peakCost":0.31564567299999996,"offReq":120,"offCost":0.586199107},{"day":"2026-10-06","req":175,"uncached":457892,"out":114273,"cache":10360292,"total":10932457,"subagentReq":0,"subagentTotal":0,"cost":1.1221898399999999,"costOfficial":0.448875936,"costUstc":0.6733139039999999,"costOther":0,"peakReq":61,"peakCost":0.39276644399999994,"offReq":114,"offCost":0.729423396},{"day":"2026-10-07","req":332,"uncached":1131601,"out":169328,"cache":19792386,"total":21093315,"subagentReq":0,"subagentTotal":0,"cost":2.2047607200000003,"costOfficial":0.8819042880000002,"costUstc":1.3228564320000002,"costOther":0,"peakReq":116,"peakCost":0.7716662519999999,"offReq":216,"offCost":1.4330944680000002},{"day":"2026-10-08","req":180,"uncached":430625,"out":99590,"cache":8564212,"total":9094427,"subagentReq":0,"subagentTotal":0,"cost":1.350363474,"costOfficial":0.5401453896,"costUstc":0.8102180843999999,"costOther":0,"peakReq":63,"peakCost":0.700188468,"offReq":117,"offCost":0.650175006},{"day":"2026-10-09","req":136,"uncached":609867,"out":72628,"cache":5010558,"total":5693053,"subagentReq":0,"subagentTotal":0,"cost":1.350796716,"costOfficial":0.5403186864,"costUstc":0.8104780296,"costOther":0,"peakReq":48,"peakCost":0.7004131119999999,"offReq":88,"offCost":0.6503836040000001},{"day":"2026-10-10","req":49,"uncached":196238,"out":25839,"cache":2515858,"total":2737935,"subagentReq":0,"subagentTotal":0,"cost":0.34991116,"costOfficial":0.139964464,"costUstc":0.209946696,"costOther":0,"peakReq":0,"peakCost":0,"offReq":49,"offCost":0.34991116},{"day":"2026-10-11","req":31,"uncached":129425,"out":11784,"cache":1422640,"total":1563849,"subagentReq":0,"subagentTotal":0,"cost":0.20501380000000002,"costOfficial":0.08200552000000001,"costUstc":0.12300828000000001,"costOther":0,"peakReq":0,"peakCost":0,"offReq":31,"offCost":0.20501380000000002},{"day":"2026-10-12","req":106,"uncached":424952,"out":33189,"cache":4666199,"total":5124340,"subagentReq":0,"subagentTotal":0,"cost":0.878893173,"costOfficial":0.3515572692,"costUstc":0.5273359038,"costOther":0,"peakReq":37,"peakCost":0.455722386,"offReq":69,"offCost":0.423170787},{"day":"2026-10-13","req":153,"uncached":685618,"out":82964,"cache":8075433,"total":8844015,"subagentReq":0,"subagentTotal":0,"cost":1.5916265909999998,"costOfficial":0.6366506364,"costUstc":0.9549759545999998,"costOther":0,"peakReq":54,"peakCost":0.8252878619999999,"offReq":99,"offCost":0.766338729},{"day":"2026-10-14","req":125,"uncached":329160,"out":40128,"cache":6474620,"total":6843908,"subagentReq":0,"subagentTotal":0,"cost":0.83587194,"costOfficial":0.334348776,"costUstc":0.501523164,"costOther":0,"peakReq":44,"peakCost":0.43341507999999995,"offReq":81,"offCost":0.40245686},{"day":"2026-10-15","req":97,"uncached":413110,"out":51698,"cache":5672888,"total":6137696,"subagentReq":0,"subagentTotal":0,"cost":0.9900356760000001,"costOfficial":0.39601427040000003,"costUstc":0.5940214056,"costOther":0,"peakReq":34,"peakCost":0.513351832,"offReq":63,"offCost":0.4766838440000001},{"day":"2026-10-16","req":86,"uncached":305334,"out":44759,"cache":3650005,"total":4000098,"subagentReq":0,"subagentTotal":0,"cost":0.7524496350000001,"costOfficial":0.30097985400000005,"costUstc":0.451469781,"costOther":0,"peakReq":30,"peakCost":0.39015907000000005,"offReq":56,"offCost":0.362290565}],"byModel":{"deepseek-flash":{"total":212320051.20000002,"req":4102,"uncached":12074903.279999997,"cache":198329942.16,"out":1915205.7600000002,"cost":29.55135262104,"costOfficial":11.820541048416,"costUstc":17.730811572624,"costOther":0},"deepseek-v4-pro":{"total":29488896,"req":574,"uncached":1677069.9,"cache":27545825.299999997,"out":266000.7999999999,"cost":4.1043545307,"costOfficial":1.64174181228,"costUstc":2.4626127184200004,"costOther":0},"deepseek-v4-flash":{"total":53080012.800000004,"req":1026,"uncached":3018725.8199999994,"cache":49582485.54,"out":478801.44000000006,"cost":7.38783815526,"costOfficial":2.955135262104,"costUstc":4.432702893156,"costOther":0}},"byProviderClass":{"official":{"req":2274,"total":117955584,"cost":16.4174181228},"ustc":{"req":3426,"total":176933376.00000003,"cost":24.62612718419999}},"totals":{"req":5700,"uncached":16770699,"cache":275458253,"out":2660008,"total":294888960,"cost":41.043545307,"costOfficial":16.4174181228,"costUstc":24.62612718419999,"costOther":0,"peakReq":1788,"peakCost":18.389934094,"offReq":3912,"offCost":22.653611213000005},"pricing":{"currency":"CNY","source":"https://api-docs.deepseek.com/zh-cn/quick_start/pricing/","note":"按 DeepSeek 官方价目表 + 峰谷定价；旧模型名 deepseek-v4-flash* 按 Flash 价；非 DeepSeek 模型按 Flash 价折算","peakRule":"北京时间 周一至周五（不含法定节假日）09:00-12:00、14:00-18:00","holidays2026":["2026-09-25","2026-09-26","2026-09-27","2026-10-01","2026-10-02","2026-10-03","2026-10-04","2026-10-05","2026-10-06","2026-10-07"],"makeupWorkdays":["2026-09-20","2026-10-10"],"table":{"deepseek-flash":{"cacheHit":{"off":0.02,"peak":0.04},"cacheMiss":{"off":1,"peak":2},"output":{"off":4,"peak":8}},"deepseek-v4-pro":{"cacheHit":{"off":0.15,"peak":0.3},"cacheMiss":{"off":4.5,"peak":9},"output":{"off":13.5,"peak":27}}}}};
 const fmt = n => n.toLocaleString('en-US');
 // 中文单位：万 / 亿
 const M = n => { const a = Math.abs(n); return a>=1e8?(n/1e8).toFixed(2)+' 亿':a>=1e4?(n/1e4).toFixed(2)+' 万':String(Math.round(n)); };

diff --git a/README.md b/README.md
@@ -1,5 +1,7 @@
 # DSH Token 用量统计
 
+[![CI](https://github.com/USTCing/dsh-token-usage/actions/workflows/ci.yml/badge.svg)](https://github.com/USTCing/dsh-token-usage/actions/workflows/ci.yml)
+
 统计 **DeepSeek Harness** 的每日 token 用量，并按 [DeepSeek 官方价目表](https://api-docs.deepseek.com/zh-cn/quick_start/pricing/)（含**峰谷定价**）折算金额，输出一份可双击打开的单文件 HTML 报表。
 
 ![报表截图](docs/screenshot.png)
@@ -146,6 +148,10 @@ node check-no-leaks.cjs
 
 会扫描仓库内文件，检查本机路径、用户名、会话 UUID、疑似密钥等。退出码非 0 表示有问题。
 
+这个检查也会在 **CI 中自动运行**（见 [`.github/workflows/ci.yml`](.github/workflows/ci.yml)）：
+每次 push / PR 都会执行，一旦有人（包括未来的你）误提交真实用量数据或凭据，CI 会直接失败。
+CI 还会跑语法检查、计价引擎自测（含峰谷边界用例）和 `--demo` 端到端，并校验生成的报表不含个人信息。
+
 ---
 
 ## 文件说明
@@ -159,6 +165,7 @@ node check-no-leaks.cjs
 | `examples/demo-report.html` | 示例报表（合成数据） |
 | `docs/screenshot.png` | README 展示图（示例数据的截图） |
 | `docs/screenshot-full.png` | 报表整页截图 |
+| `.github/workflows/ci.yml` | CI：语法检查 + 隐私自检 + 计价自测 + 端到端 |
 
 ---
 
